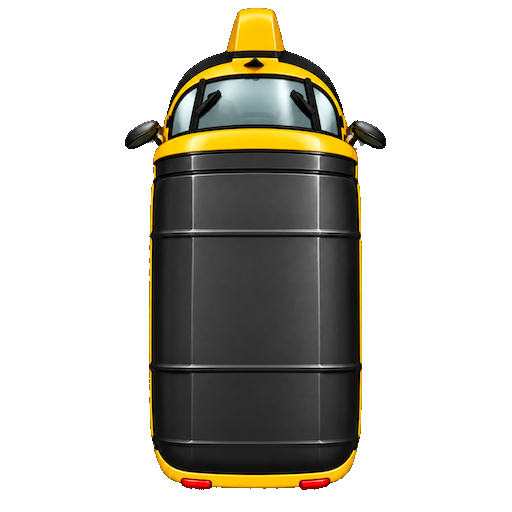
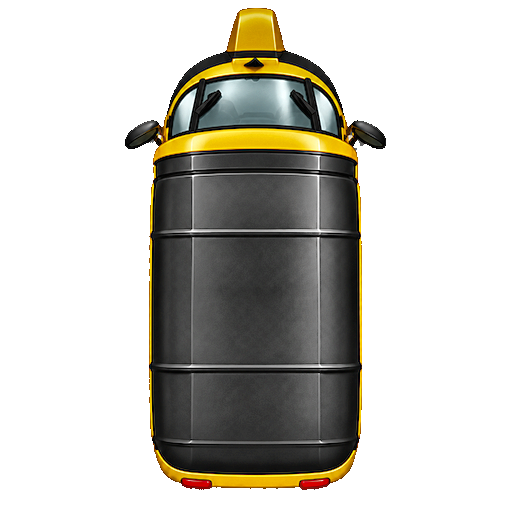
feat(assets): enhance vehicle image sharpness, micro-contrast and adjust render scale to 90px

diff --git a/lib/presentation/screens/search/selection_vehicle_screen.dart b/lib/presentation/screens/search/selection_vehicle_screen.dart
@@ -148,7 +148,7 @@ class _SelectionVehicleScreenState extends State<SelectionVehicleScreen> {
     final ByteData data = await rootBundle.load(assetPath);
     final ui.Codec codec = await ui.instantiateImageCodec(
       data.buffer.asUint8List(),
-      targetWidth: 70,
+      targetWidth: 90,
     );
     final ui.FrameInfo fi = await codec.getNextFrame();
     final bytes = (await fi.image.toByteData(format: ui.ImageByteFormat.png))!

diff --git a/lib/presentation/screens/home/item_home_screen.dart b/lib/presentation/screens/home/item_home_screen.dart
@@ -2039,8 +2039,8 @@ class _ItemHomeScreenState extends State<ItemHomeScreen>
                 child: Center(
                   child: Image.asset(
                     'assets/images/BIKE.png',
-                    width: 40,
-                    height: 40,
+                    width: 48,
+                    height: 48,
                     fit: BoxFit.contain,
                   ),
                 ),

diff --git a/lib/presentation/screens/search/send_ride_request_screen.dart b/lib/presentation/screens/search/send_ride_request_screen.dart
@@ -416,7 +416,7 @@ class _SendRideRequestScreenState extends State<SendRideRequestScreen> {
           'Driver Location',
           'driver_marker',
           _vehicleMarkerAsset(),
-          75,
+          90,
         );
   }
 
